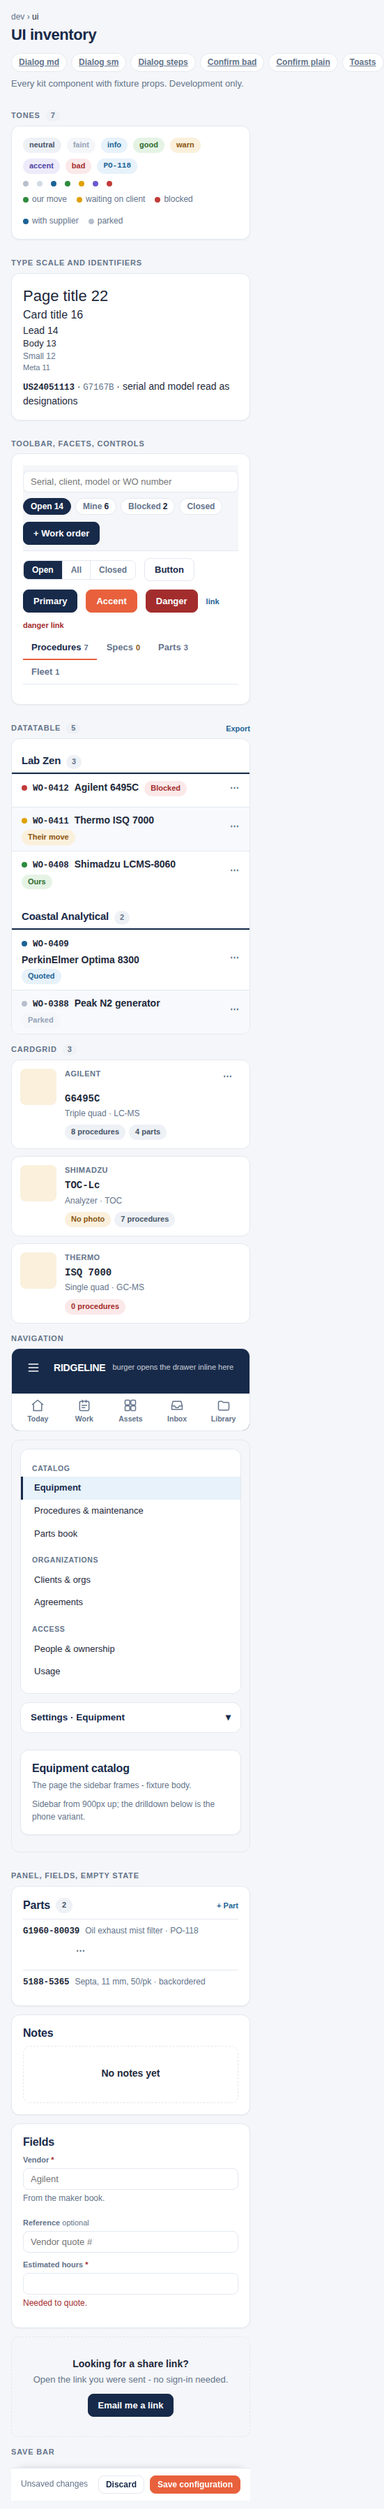
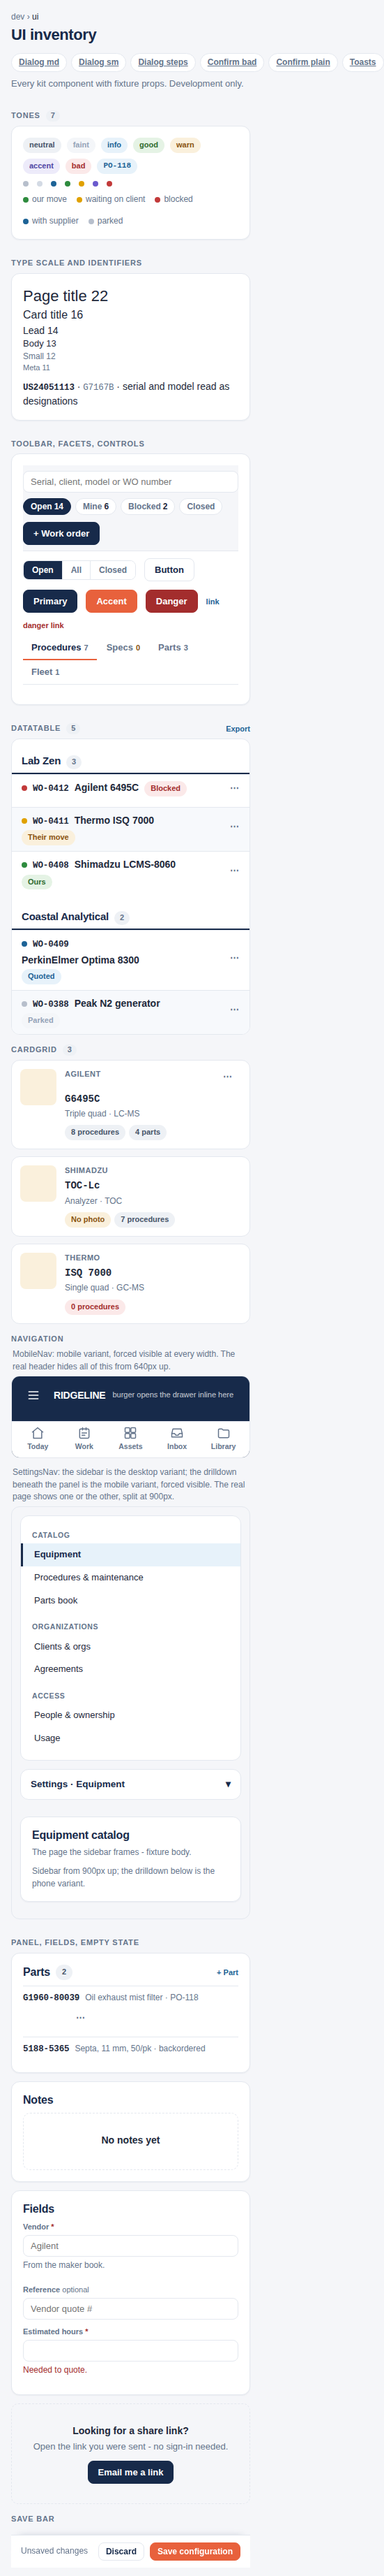
Nav fixtures labelled; the real header checked against the fixtures
The /dev/ui Navigation frames now say what they force ("mobile variant,
forced visible" / "desktop variant") so the captures cannot be misread,
and three captures from the running app join them: /settings/catalog at
1280 and 375, and the bare header at 1280. Running the real pages
surfaced one bug the fixtures could not: .brand-name never truncated, so
on a phone a long brand painted under the utility icons. It ellipsizes
now.

Claude-Session: https://claude.ai/code/session_01R1DnuNnwpQaMKF5sWKf9Mk

diff --git a/src/components/dev/DevUiGallery.tsx b/src/components/dev/DevUiGallery.tsx
@@ -248,6 +248,9 @@ export default function DevUiGallery() {
 
       <SectionHead label="Navigation" />
       <style>{NAV_FRAME_CSS}</style>
+      <div className="mut t-small" style={{ margin: "0 0 4px 2px" }}>
+        MobileNav: mobile variant, forced visible at every width. The real header hides all of this from 640px up.
+      </div>
       <div className="navframe" id="nav-mobile">
         <div className="navframe-bar">
           <MobileNav
@@ -276,6 +279,10 @@ export default function DevUiGallery() {
         </div>
       </div>
 
+      <div className="mut t-small" style={{ margin: "0 0 4px 2px" }}>
+        SettingsNav: the sidebar is the desktop variant; the drilldown beneath the panel is the
+        mobile variant, forced visible. The real page shows one or the other, split at 900px.
+      </div>
       <div className="navframe" id="nav-settings">
         <div className="settings-shell">
           <SettingsNav isOwner isPlatform={false} />
